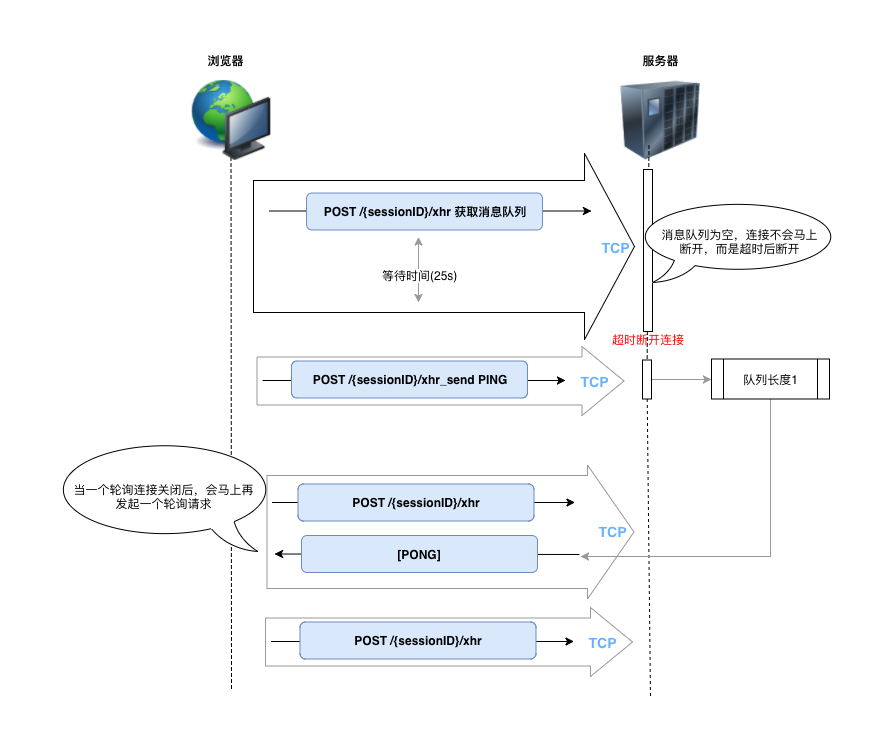
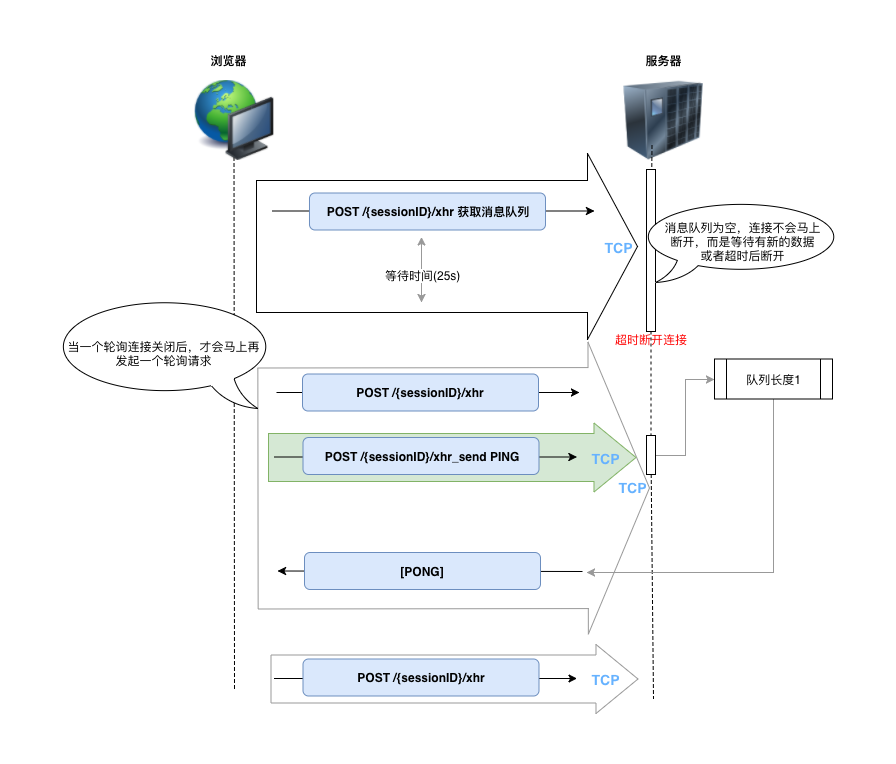
feat: sockjs 完善轮询

diff --git a/source/_posts/sockjs.md b/source/_posts/sockjs.md
@@ -7,12 +7,17 @@ categories: 前端
 sockjs
 socket.io
 
+低延时数据传输方法
+
 <!-- TOC -->
 
 - [WebSocket](#websocket)
 - [XHR-streaming](#xhr-streaming)
 - [EventSource](#eventsource)
 - [Polling](#polling)
+  - [长轮询(Long polling)](#长轮询long-polling)
+- [DDP](#ddp)
+- [扩展](#扩展)
 
 <!-- /TOC -->
 
@@ -199,14 +204,29 @@ evtSource.onmessage = function(e) {
 
 ## Polling
 
-轮询是最粗暴，或者说最简单的‘实时’通信方案，这种方式的原理就是定期到服务器拉取消息队列，sockjs的实现方式如下:
-
-![](/images/sockjs/polling.png)
-
-sockjs的客户端向服务端发起一个消息获取请求，服务端会将当前的消息队列返回给客户端，然后关闭连接。当消息队列为空时，服务端不会立即关闭连接，而是由客户端主动超时关闭连接。
-
-当然还有一种更粗暴的：由客户端定期发起消息请求
+轮询是最粗暴(或者说最简单)，也是效率最低下的‘实时’通信方案，这种方式的原理就是定期向服务器发起请求, 拉取最新的消息队列:
 
 ![](/images/sockjs/polling2.png)
 
-DDP
+这种轮询方式比较合适**服务器的信息定期更新**的场景，如天气和股票行情信息。举个例子股票信息每隔5分钟更新一次，这时候客户端定期轮询, 且轮询间隔和服务端更新频率保持一致是一种理想的方式。
+
+但是如果追求实时性，轮询会导致一些严重的问题:
+
+- 资源浪费。比如轮询的间隔低于服务器信息更新的频率，这会浪费很多HTTP请求, 消耗宝贵的CPU时间和带宽
+- 容易导致请求轰炸。比如当服务器负载比较高时，第一个请求还没处理完成，这时候第二、第三个请求接踵而来，无用的额外请求对服务端进行了轰炸。
+
+### 长轮询(Long polling)
+
+还有一种轮询方法，成为长轮询(Long Polling)，sockjs就是使用这种轮询方式: 长轮询指的是浏览器发送一个请求到服务器，服务器只有在有可用的新数据时才响应：
+
+![](/images/sockjs/polling.png)
+
+sockjs的客户端向服务端发起一个消息获取请求，服务端会将当前的消息队列返回给客户端，然后关闭连接。当消息队列为空时，服务端不会立即关闭连接，而是等待指定的时间间隔，如果在这个时间间隔内没有新的消息， 则由客户端主动超时关闭连接。
+
+另外一个要点时，客户端的轮询请求只有在上一个请求连接关闭后才会重新发起。这就解决了上文的请求轰炸问题。而且服务端可以控制客户端发起请求的时序，因为在服务端未响应之前，客户端不会发送额外的请求(在超时期间内)。
+
+## DDP
+
+## 扩展
+
+- [程序员怎么会不知道C10K 问题呢？ - 池建强- Medium](https://medium.com/@chijianqiang/程序员怎么会不知道-c10k-问题呢-d024cb7880f3)
